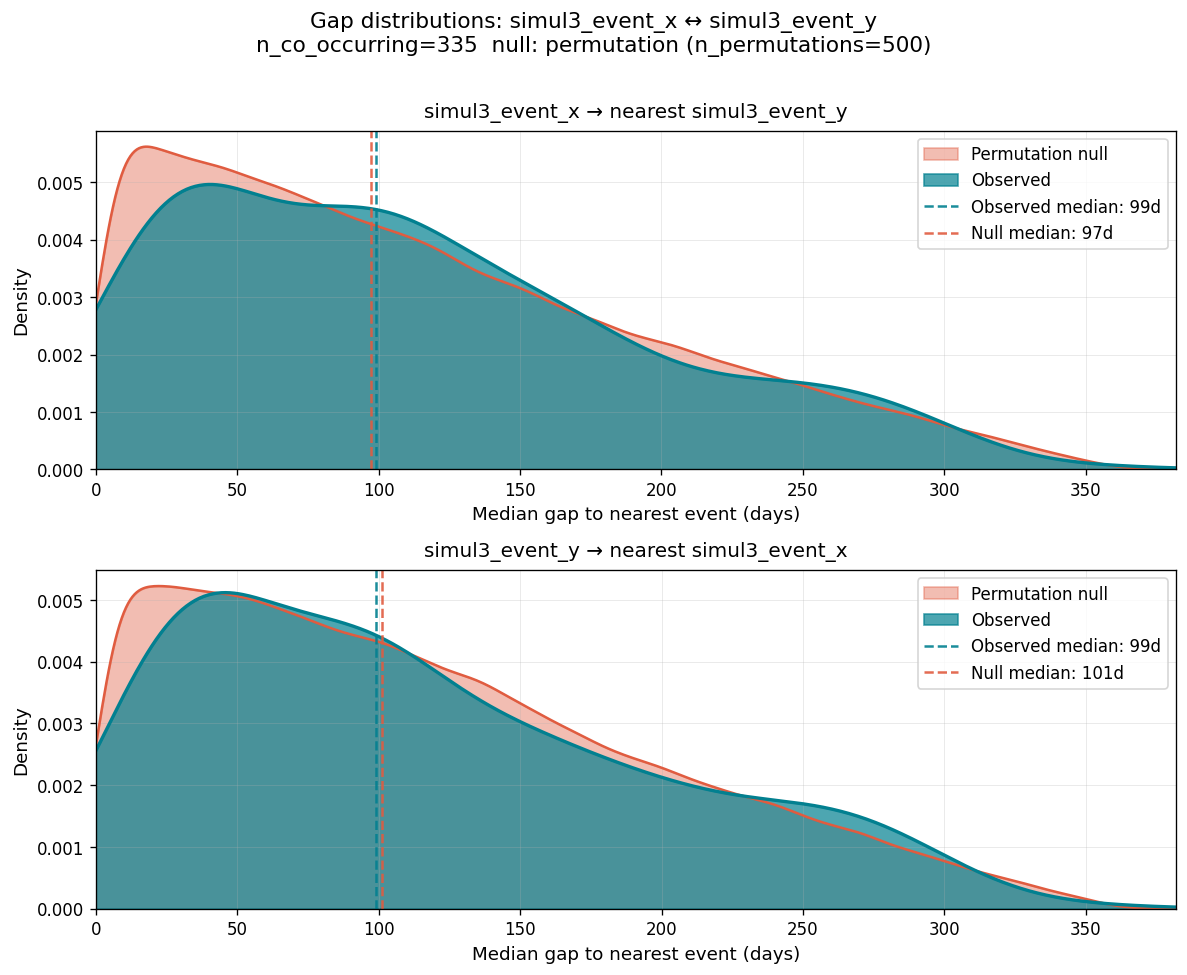
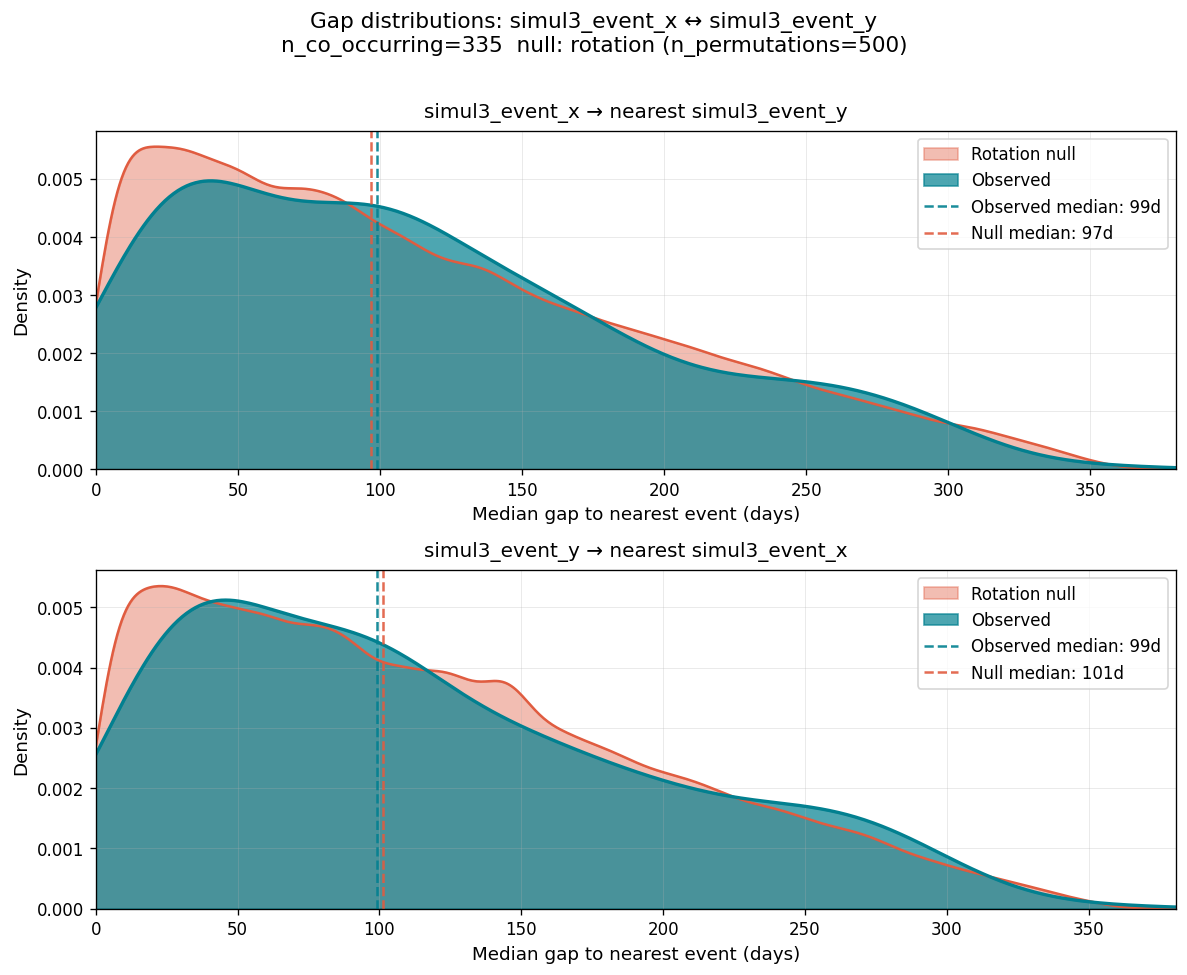
co-occurrence changes

diff --git a/src/eventus/analyzers/event_cooccurrence/event_co_occurrence_gap_analyzer.py b/src/eventus/analyzers/event_cooccurrence/event_co_occurrence_gap_analyzer.py
@@ -16,7 +16,7 @@ Three null models are available via the ``null_method`` argument of
 event counts and observation-window length fixed; they differ in what
 temporal structure they preserve:
 
-- "monte_carlo" (default): for each iteration, draw n_a new A dates and
+- "uniform_monte_carlo" (default): for each iteration, draw n_a new A dates and
   n_b new B dates uniformly over the observation period, then recompute
   the gap. Fast, but assumes each event type is uniformly (Poisson-like)
   placed — it does NOT preserve within-type clustering (burstiness), and
@@ -35,7 +35,7 @@ temporal structure they preserve:
 
 The "rotation" and "label_permutation" nulls require the per-entity
 event offsets carried in the summary (columns a_offsets / b_offsets);
-"monte_carlo" needs only the counts. All inner loops are vectorized
+"uniform_monte_carlo" needs only the counts. All inner loops are vectorized
 with numpy.
 
 References
@@ -156,7 +156,7 @@ def _labelperm_gaps_for_entity(
     return np.median(nearest, axis=1)
 
 
-_VALID_NULL_METHODS = ("monte_carlo", "rotation", "label_permutation")
+_VALID_NULL_METHODS = ("uniform_monte_carlo", "rotation", "label_permutation")
 
 
 def _gap_null_for_direction(
@@ -169,7 +169,7 @@ def _gap_null_for_direction(
     rng:            np.random.Generator,
 ) -> np.ndarray:
     """Dispatch to the requested null for one source→target direction."""
-    if null_method == "monte_carlo":
+    if null_method == "uniform_monte_carlo":
         return _montecarlo_gaps_for_entity(n_source, n_target, obs_length, n_iter, rng)
     if null_method == "rotation":
         return _rotation_gaps_for_entity(source_offsets, target_offsets, obs_length, n_iter, rng)
@@ -186,7 +186,7 @@ class EventCoOccurrenceGapAnalyzer:
     EventCoOccurrenceGapSummary to a resampling-based null.
 
     Three null models are available (see module docstring and the
-    ``null_method`` argument of ``compute_test``): "monte_carlo" (uniform
+    ``null_method`` argument of ``compute_test``): "uniform_monte_carlo" (uniform
     placement; the default), "rotation" (preserves each type's own
     burstiness), and "label_permutation". All hold each entity's event
     counts and observation window fixed.
@@ -236,7 +236,7 @@ class EventCoOccurrenceGapAnalyzer:
         self,
         n_permutations: int  = 500,
         seed:           int  = 42,
-        null_method:    str  = "monte_carlo",
+        null_method:    str  = "uniform_monte_carlo",
         n_iterations:   int | None = None,
     ) -> "EventCoOccurrenceGapTest":
         """
@@ -254,8 +254,8 @@ class EventCoOccurrenceGapAnalyzer:
             takes precedence if both are given.)
         seed : int
             Random seed for reproducibility.
-        null_method : {"monte_carlo", "rotation", "label_permutation"}
-            Null model to use. Default "monte_carlo" (uniform placement).
+        null_method : {"uniform_monte_carlo", "rotation", "label_permutation"}
+            Null model to use. Default "uniform_monte_carlo" (uniform placement).
             "rotation" and "label_permutation" require the per-entity
             a_offsets / b_offsets columns produced by compute_gaps().
         n_iterations : int, optional
@@ -307,7 +307,7 @@ class EventCoOccurrenceGapAnalyzer:
                 f"{_ERROR}: null_method={null_method!r} requires per-entity "
                 f"a_offsets / b_offsets, which are produced by compute_gaps(). "
                 f"This summary predates offset capture; rebuild it, or use "
-                f"null_method='monte_carlo'."
+                f"null_method='uniform_monte_carlo'."
             )
         a_off = co_occ["a_offsets"].values if needs_offsets else [None] * len(co_occ)
         b_off = co_occ["b_offsets"].values if needs_offsets else [None] * len(co_occ)

diff --git a/tests/test_cooccurrence.py b/tests/test_cooccurrence.py
@@ -100,17 +100,17 @@ def test_ch10_directionality(simul1_analyzer):
 
 
 # --------------------------------------------------------------------------- #
-# Null-model options (monte_carlo, rotation, label_permutation)
+# Null-model options (uniform_monte_carlo, rotation, label_permutation)
 # --------------------------------------------------------------------------- #
 
-NULL_METHODS = ["monte_carlo", "rotation", "label_permutation"]
+NULL_METHODS = ["uniform_monte_carlo", "rotation", "label_permutation"]
 
 
-def test_gap_default_null_method_is_monte_carlo(simul1_analyzer):
-    """Default null_method is monte_carlo and is reported honestly."""
+def test_gap_default_null_method_is_uniform_monte_carlo(simul1_analyzer):
+    """Default null_method is uniform_monte_carlo and is reported honestly."""
     gaps = simul1_analyzer.compute_gaps()
     test = eventus.EventCoOccurrenceGapAnalyzer(gaps).compute_test(n_permutations=200)
-    assert test.null_method == "monte_carlo"
+    assert test.null_method == "uniform_monte_carlo"
 
 
 @pytest.mark.parametrize("null_method", NULL_METHODS)
@@ -152,7 +152,7 @@ def test_invalid_null_method_raises(simul1_analyzer):
         eventus.EventCoOccurrenceGapAnalyzer(gaps).compute_test(null_method="bogus")
 
 
-def test_rotation_preserves_burstiness_vs_monte_carlo():
+def test_rotation_preserves_burstiness_vs_uniform_monte_carlo():
     """
     Discrimination test: on data where each type is bursty but A and B are
     temporally independent, the uniform Monte Carlo null can register a
@@ -209,12 +209,12 @@ def test_rotation_preserves_burstiness_vs_monte_carlo():
     )
     analyzer = eventus.EventCoOccurrenceGapAnalyzer(summary)
 
-    mc  = analyzer.compute_test(n_permutations=300, null_method="monte_carlo", seed=1)
+    mc  = analyzer.compute_test(n_permutations=300, null_method="uniform_monte_carlo", seed=1)
     rot = analyzer.compute_test(n_permutations=300, null_method="rotation",    seed=1)
 
     # A and B are temporally independent, so a well-specified null should give
     # gap_ratio ~ 1 (no signal). The rotation null preserves each type's own
     # clustering and lands near 1; the uniform Monte Carlo null misspecifies
     # the marginal timing and produces a spurious ratio far from 1. We assert
-    # rotation is markedly closer to 1 than monte_carlo.
+    # rotation is markedly closer to 1 than uniform_monte_carlo.
     assert abs(rot.gap_ratio_a_to_b - 1.0) < abs(mc.gap_ratio_a_to_b - 1.0)

diff --git a/src/eventus/analyzers/event_cooccurrence/event_co_occurrence_directionality_analyzer.py b/src/eventus/analyzers/event_cooccurrence/event_co_occurrence_directionality_analyzer.py
@@ -15,7 +15,7 @@ Three null models are available via the ``null_method`` argument of
 ``compute_test``, all holding each entity's event counts and window
 fixed (see EventCoOccurrenceGapAnalyzer for the full description):
 
-- "monte_carlo" (default): draw n_a and n_b dates uniformly; recompute
+- "uniform_monte_carlo" (default): draw n_a and n_b dates uniformly; recompute
   the mean signed gap. Assumes uniform placement (no burstiness).
 - "rotation": keep observed dates, shift B by a random within-window
   offset (wrapping); preserves each type's own burstiness.
@@ -137,7 +137,7 @@ def _labelperm_signed_gaps_for_entity(
     return _signed_from_positions(a, b)
 
 
-_VALID_NULL_METHODS = ("monte_carlo", "rotation", "label_permutation")
+_VALID_NULL_METHODS = ("uniform_monte_carlo", "rotation", "label_permutation")
 
 
 def _dir_null_for_entity(
@@ -150,7 +150,7 @@ def _dir_null_for_entity(
     rng:         np.random.Generator,
 ) -> np.ndarray:
     """Dispatch to the requested directionality null for one entity."""
-    if null_method == "monte_carlo":
+    if null_method == "uniform_monte_carlo":
         return _montecarlo_signed_gaps_for_entity(n_a, n_b, obs_length, n_iter, rng)
     if null_method == "rotation":
         return _rotation_signed_gaps_for_entity(a_offsets, b_offsets, obs_length, n_iter, rng)
@@ -205,7 +205,7 @@ class EventCoOccurrenceDirectionalityAnalyzer:
         self,
         n_permutations: int  = 500,
         seed:           int  = 42,
-        null_method:    str  = "monte_carlo",
+        null_method:    str  = "uniform_monte_carlo",
         n_iterations:   int | None = None,
     ) -> "EventCoOccurrenceDirectionalityTest":
         """
@@ -218,8 +218,8 @@ class EventCoOccurrenceDirectionalityAnalyzer:
             iterations. Kept for backward compatibility; ``n_iterations``
             is preferred and takes precedence if both are given.
         seed           : int — random seed for reproducibility
-        null_method    : {"monte_carlo", "rotation", "label_permutation"}
-            Default "monte_carlo". "rotation" and "label_permutation"
+        null_method    : {"uniform_monte_carlo", "rotation", "label_permutation"}
+            Default "uniform_monte_carlo". "rotation" and "label_permutation"
             require the a_offsets / b_offsets columns from
             compute_directionality().
         n_iterations   : int, optional — preferred alias for n_permutations.
@@ -268,7 +268,7 @@ class EventCoOccurrenceDirectionalityAnalyzer:
                 f"{_ERROR}: null_method={null_method!r} requires per-entity "
                 f"a_offsets / b_offsets from compute_directionality(). This "
                 f"summary predates offset capture; rebuild it, or use "
-                f"null_method='monte_carlo'."
+                f"null_method='uniform_monte_carlo'."
             )
         a_off = co_occ["a_offsets"].values if needs_offsets else [None] * len(co_occ)
         b_off = co_occ["b_offsets"].values if needs_offsets else [None] * len(co_occ)

diff --git a/src/eventus/visualizers/event_cooccurrence/event_co_occurrence_directionality_plotter.py b/src/eventus/visualizers/event_cooccurrence/event_co_occurrence_directionality_plotter.py
@@ -7,7 +7,7 @@ Single-panel figure centered at zero.
 Positive x = A tends to precede B.
 Negative x = B tends to precede A.
 
-The null model used (monte_carlo, rotation, or label_permutation) is
+The null model used (uniform_monte_carlo, rotation, or label_permutation) is
 read from the test object and shown in the legend.
 """
 from __future__ import annotations
@@ -23,9 +23,9 @@ from eventus.intermediates.event_cooccurrence.event_co_occurrence_directionality
 _ERROR = "[EventCoOccurrenceDirectionalityPlotter] Error"
 
 _NULL_LABELS = {
-    "monte_carlo":       "Monte Carlo null",
-    "rotation":          "Rotation null",
-    "label_permutation": "Label-permutation null",
+    "uniform_monte_carlo": "Uniform (MC)",
+    "rotation":            "Rotation",
+    "label_permutation":   "Label permutation",
 }
 
 

diff --git a/src/eventus/visualizers/event_cooccurrence/event_co_occurrence_gap_plotter.py b/src/eventus/visualizers/event_cooccurrence/event_co_occurrence_gap_plotter.py
@@ -10,7 +10,7 @@ Two-panel figure:
 Each panel shows:
   - KDE of observed per-entity median gaps (solid)
   - KDE of the null gaps (filled, semi-transparent) — the null model
-    used (monte_carlo, rotation, or label_permutation) is read from the
+    used (uniform_monte_carlo, rotation, or label_permutation) is read from the
     test object and shown in the legend and title
   - Vertical lines at observed and null medians (if show_medians=True)
   - KS statistic and p-value annotation (if show_ks=True)
@@ -30,9 +30,9 @@ from eventus.intermediates.event_cooccurrence.event_co_occurrence_gap_test impor
 _ERROR = "[EventCoOccurrenceGapPlotter] Error"
 
 _NULL_LABELS = {
-    "monte_carlo":       "Monte Carlo null",
-    "rotation":          "Rotation null",
-    "label_permutation": "Label-permutation null",
+    "uniform_monte_carlo": "Uniform (MC)",
+    "rotation":            "Rotation",
+    "label_permutation":   "Label permutation",
 }
 
 

diff --git a/src/eventus/intermediates/event_cooccurrence/event_co_occurrence_directionality_test.py b/src/eventus/intermediates/event_cooccurrence/event_co_occurrence_directionality_test.py
@@ -18,7 +18,7 @@ _ERROR = "[EventCoOccurrenceDirectionalityTest] Error"
 _WILCOXON_NOTE = (
     "Wilcoxon signed-rank test comparing per-entity mean signed gaps to "
     "zero, with an empirical null generated by one of three methods "
-    "(see null_method): 'monte_carlo' draws A and B dates uniformly over "
+    "(see null_method): 'uniform_monte_carlo' draws A and B dates uniformly over "
     "each entity's observation period; 'rotation' shifts the observed B "
     "sequence by a random within-window offset, preserving each type's "
     "own burstiness; 'label_permutation' reassigns labels over the pooled "
@@ -80,7 +80,7 @@ class EventCoOccurrenceDirectionalityTest:
         null_fraction_a_first: float,
         wilcoxon_statistic:    float,
         wilcoxon_p:            float,
-        null_method:           str = "monte_carlo",
+        null_method:           str = "uniform_monte_carlo",
     ) -> None:
         for name, val in [("identity_a", identity_a), ("identity_b", identity_b)]:
             if not isinstance(val, str) or not val.strip():
@@ -131,7 +131,7 @@ class EventCoOccurrenceDirectionalityTest:
 
     @property
     def null_method(self) -> str:
-        """'monte_carlo', 'rotation', or 'label_permutation'."""
+        """'uniform_monte_carlo', 'rotation', or 'label_permutation'."""
         return self._null_method
 
     @property

diff --git a/src/eventus/intermediates/event_cooccurrence/event_co_occurrence_gap_test.py b/src/eventus/intermediates/event_cooccurrence/event_co_occurrence_gap_test.py
@@ -16,7 +16,7 @@ The null distribution
 The null is generated by resampling, per entity, via one of three
 methods selected by EventCoOccurrenceGapAnalyzer.compute_test(null_method):
 
-- "monte_carlo" (default): draw n_a and n_b dates uniformly over the
+- "uniform_monte_carlo" (default): draw n_a and n_b dates uniformly over the
   observation period. Assumes uniform placement; does not preserve each
   type's own clustering (burstiness).
 - "rotation": keep observed dates, shift the target sequence by a random
@@ -48,7 +48,7 @@ _ERROR = "[EventCoOccurrenceGapTest] Error"
 _KS_NOTE = (
     "Two-sample KS test comparing observed per-entity median gaps to an "
     "empirical null generated by one of three methods (see null_method): "
-    "'monte_carlo' draws A and B dates uniformly over each entity's "
+    "'uniform_monte_carlo' draws A and B dates uniformly over each entity's "
     "observation period; 'rotation' shifts the observed target sequence by "
     "a random within-window offset, preserving each type's own burstiness; "
     "'label_permutation' reassigns labels over the pooled observed dates. "